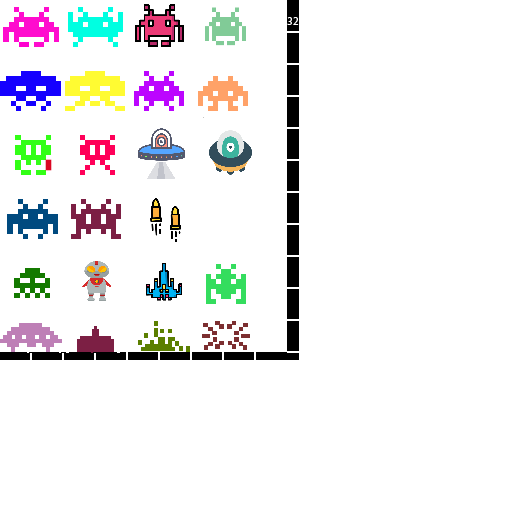
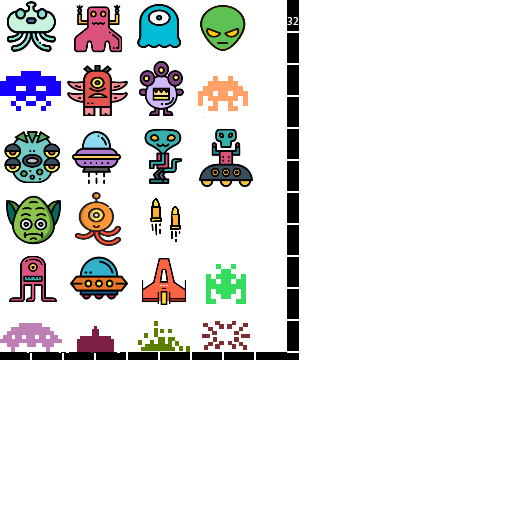
Estan añadidas las imagenes, y el sonido correctamente. TODO OK A ver que más se me ocurre

Changed region(s): [[0.0, 0.0, 0.5, 0.5938], [0.375, 0.25, 0.5, 0.375]]

diff --git a/src/codigo/VentanaJuego.java b/src/codigo/VentanaJuego.java
@@ -104,11 +104,11 @@ public class VentanaJuego extends javax.swing.JFrame {
         creaFilaDeMarcianos(0, 0, 2);
         creaFilaDeMarcianos(1, 2, 2);
         creaFilaDeMarcianos(2, 4, 0);
-        creaFilaDeMarcianos(3, 0, 2);
-        creaFilaDeMarcianos(4, 0, 2);
-        creaFilaDeMarcianos(5, 0, 2);
-        creaFilaDeMarcianos(6, 0, 2);
-        creaFilaDeMarcianos(7, 0, 2);        
+        creaFilaDeMarcianos(3, 3, 0);
+        creaFilaDeMarcianos(4, 1, 1);
+        creaFilaDeMarcianos(5, 2, 1);
+        creaFilaDeMarcianos(6, 2, 0);
+        creaFilaDeMarcianos(7, 0, 0);      
     }
   
     
